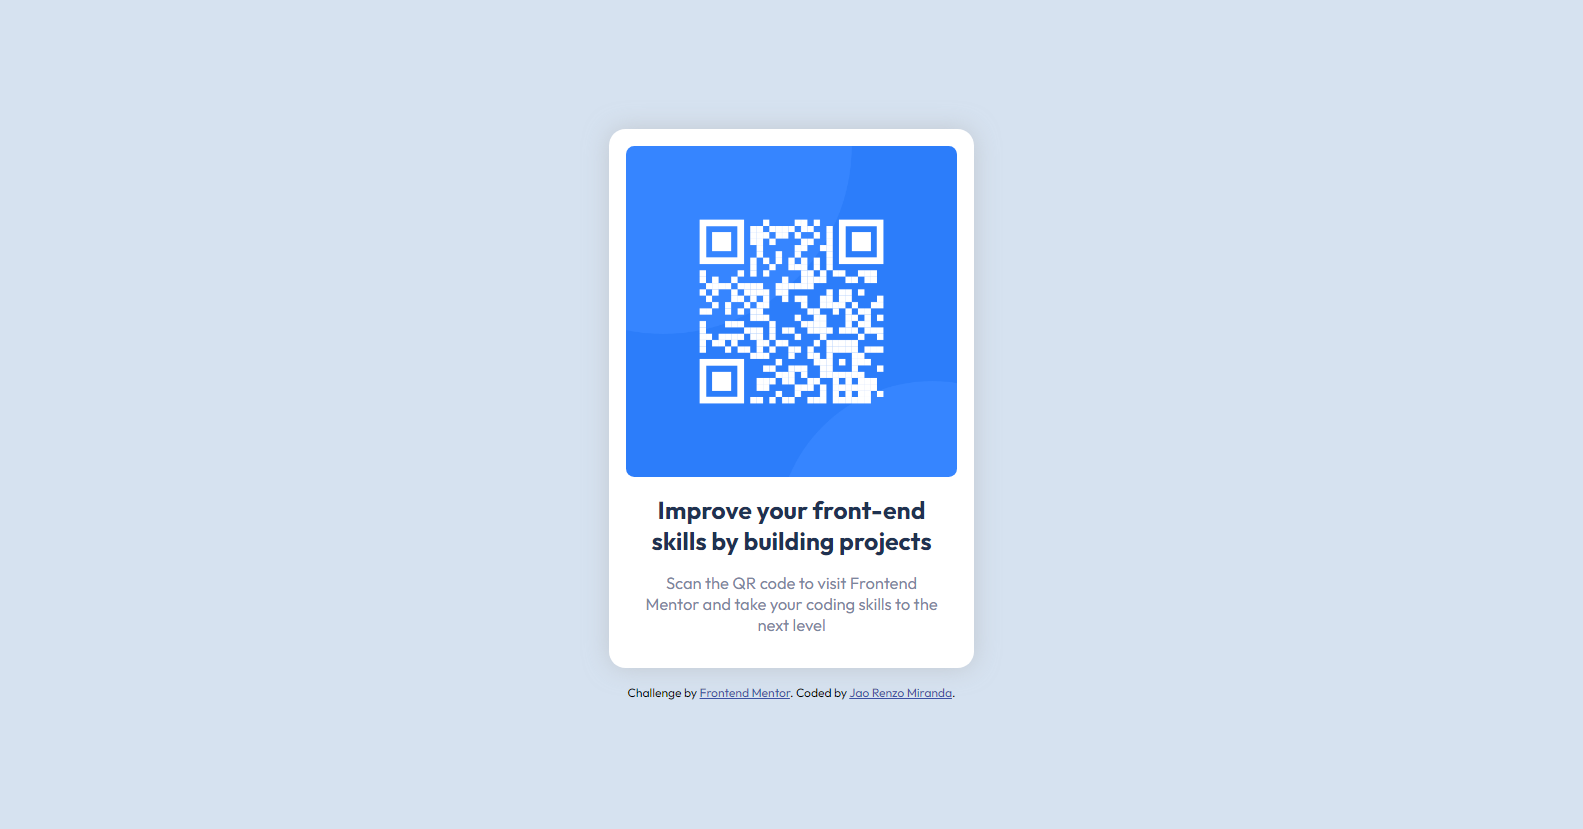
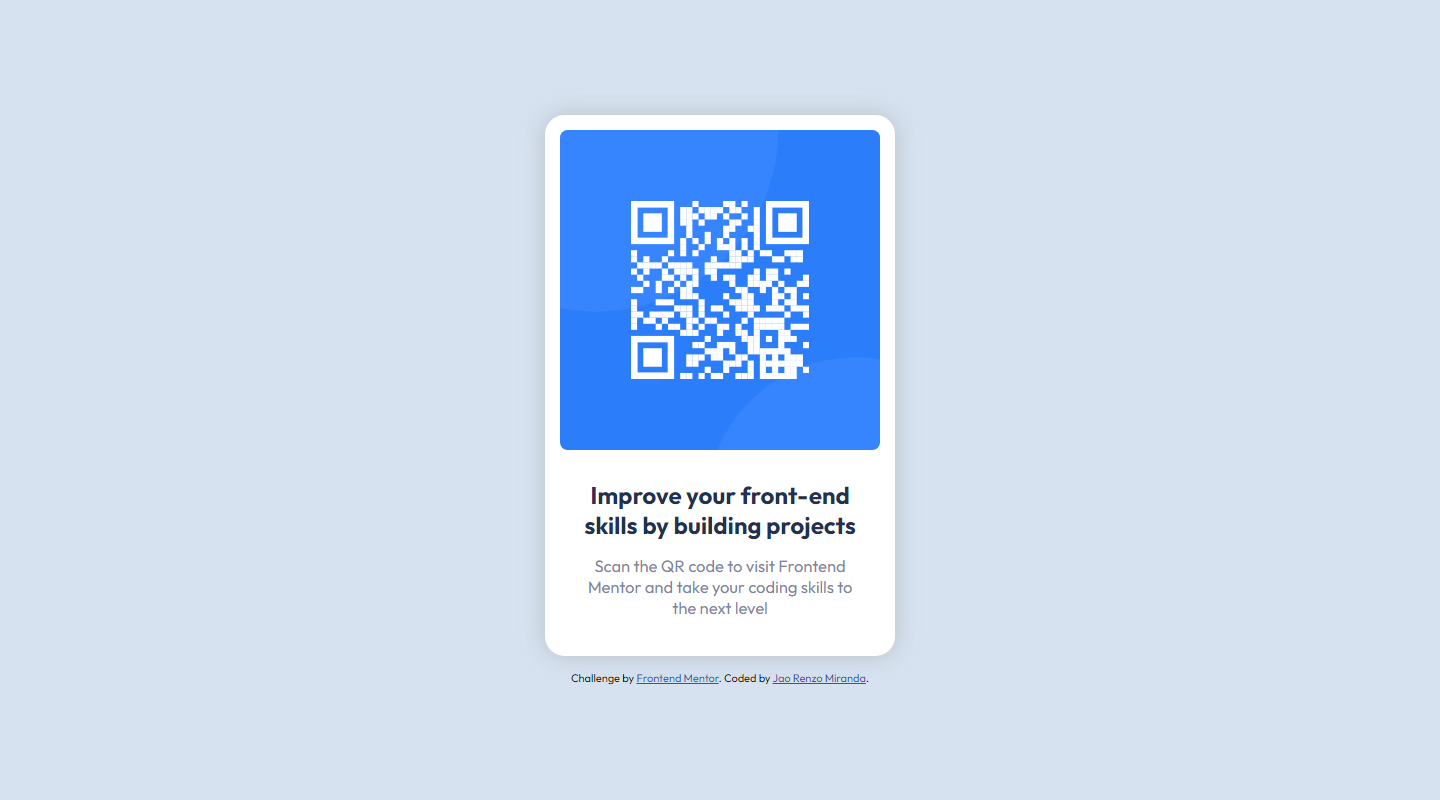
Update style.css

Changed region(s): [[0.375, 0.125, 0.625, 0.875], [0.4375, 0.25, 0.5625, 0.5]]

diff --git a/style.css b/style.css
@@ -5,7 +5,7 @@
   --light-gray: hsl(212, 45%, 89%);
   --grayish-blue: hsl(220, 15%, 55%);
   --dark-blue: hsl(218, 44%, 22%);
-  --shadow: hsla(214, 5%, 72%, 0.6);
+  --shadow: hsla(210, 2%, 67%, 0.6);
 }
 
 *,
@@ -37,12 +37,12 @@ img {
   display: flex;
   flex-direction: column;
   gap: 1em;
-  width: max(23%, 300px);
+  width: min(90%, 350px);
 }
 
 .card {
   background-color: var(--white);
-  border-radius: 1em;
+  border-radius: 1.3em;
   box-shadow: 0 0 1.5em var(--shadow);
   display: flex;
   flex-direction: column;
@@ -51,19 +51,24 @@ img {
   text-align: center;
 }
 
+.title-subtitle {
+  display: flex;
+  flex-direction: column;
+  gap: 1em;
+  margin: 1em;
+  margin-bottom: 1.5em;
+}
+
 .title {
-  font-size: 1.5em;
+  font-size: clamp(1em, 1.6em, 1.8em);
   font-weight: 700;
   color: var(--dark-blue);
-  margin: 0 1em;
 }
 
 .subtitle {
-  font-size: 1em;
+  font-size: clamp(0.5em, 1.1em, 1.5em);
   font-weight: 400;
   color: var(--grayish-blue);
-  padding-bottom: 1em;
-  margin: 0 1em;
 }
 
 .attribution {
@@ -77,5 +82,8 @@ img {
 @media only screen and (max-width: 375px) {
   .container {
     width: 90%;
+  }
+  .subtitle {
+    font-size: clamp(0.5em, 1.1em, 1.5em);
   }
 }

diff --git a/index.html b/index.html
@@ -18,13 +18,15 @@
     <div class="container">
       <div class="card">
         <img src="./images/image-qr-code.png" alt="" />
-        <h1 class="title">
-          Improve your front-end skills by building projects
-        </h1>
-        <h2 class="subtitle">
-          Scan the QR code to visit Frontend Mentor and take your coding skills
-          to the next level
-        </h2>
+        <section class="title-subtitle">
+          <h1 class="title">
+            Improve your front-end skills by building projects
+          </h1>
+          <h2 class="subtitle">
+            Scan the QR code to visit Frontend Mentor and take your coding
+            skills to the next level
+          </h2>
+        </section>
       </div>
 
       <div class="attribution">
